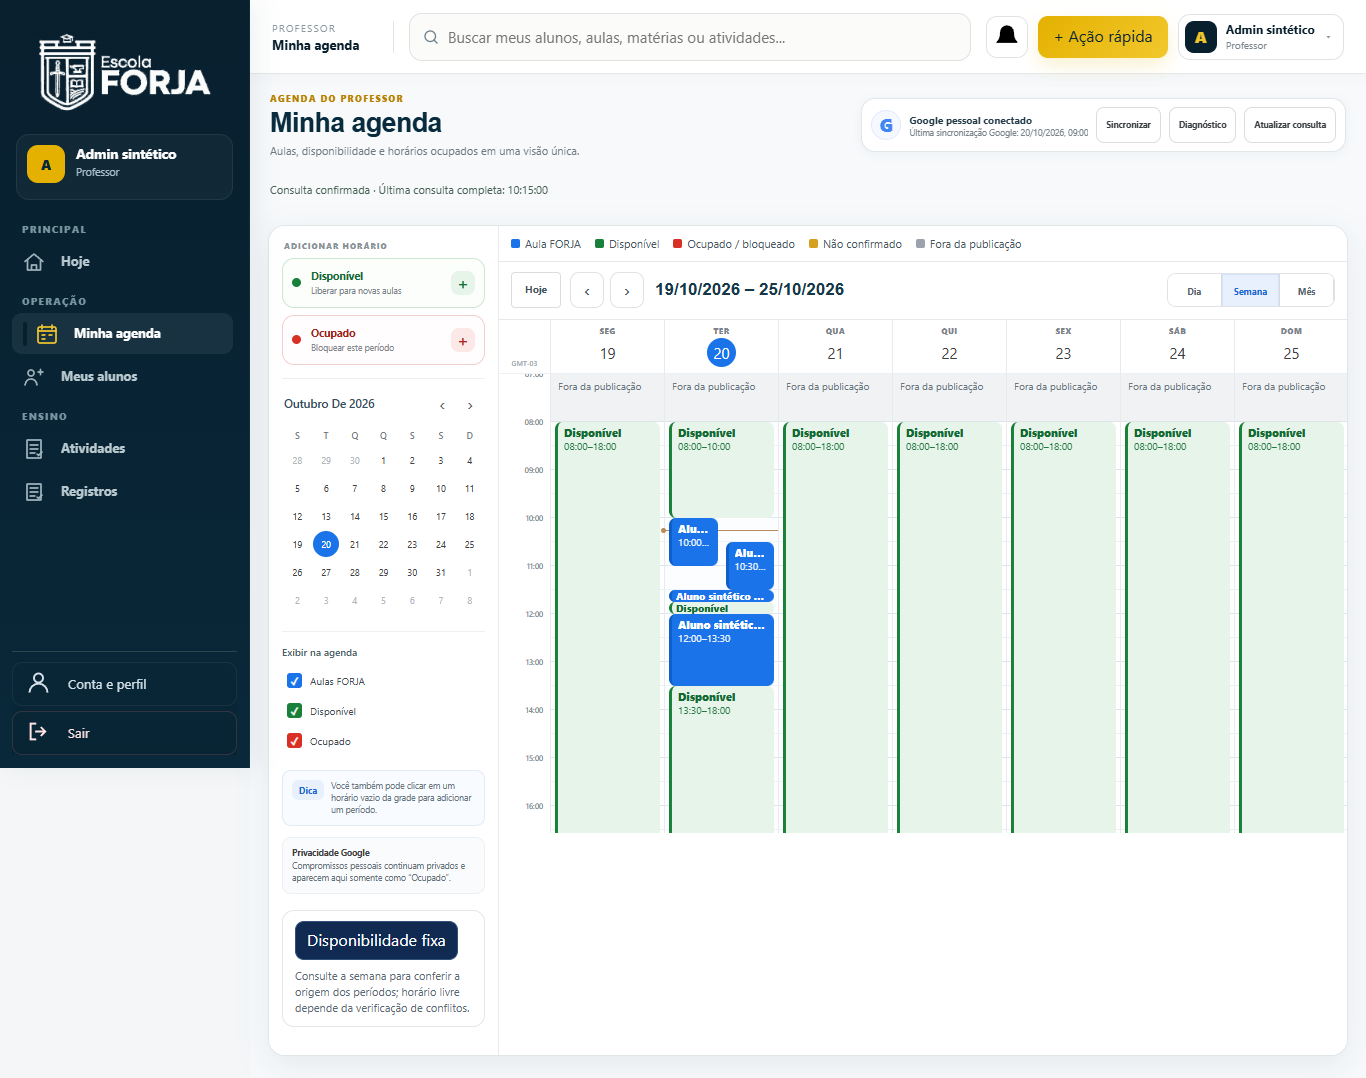
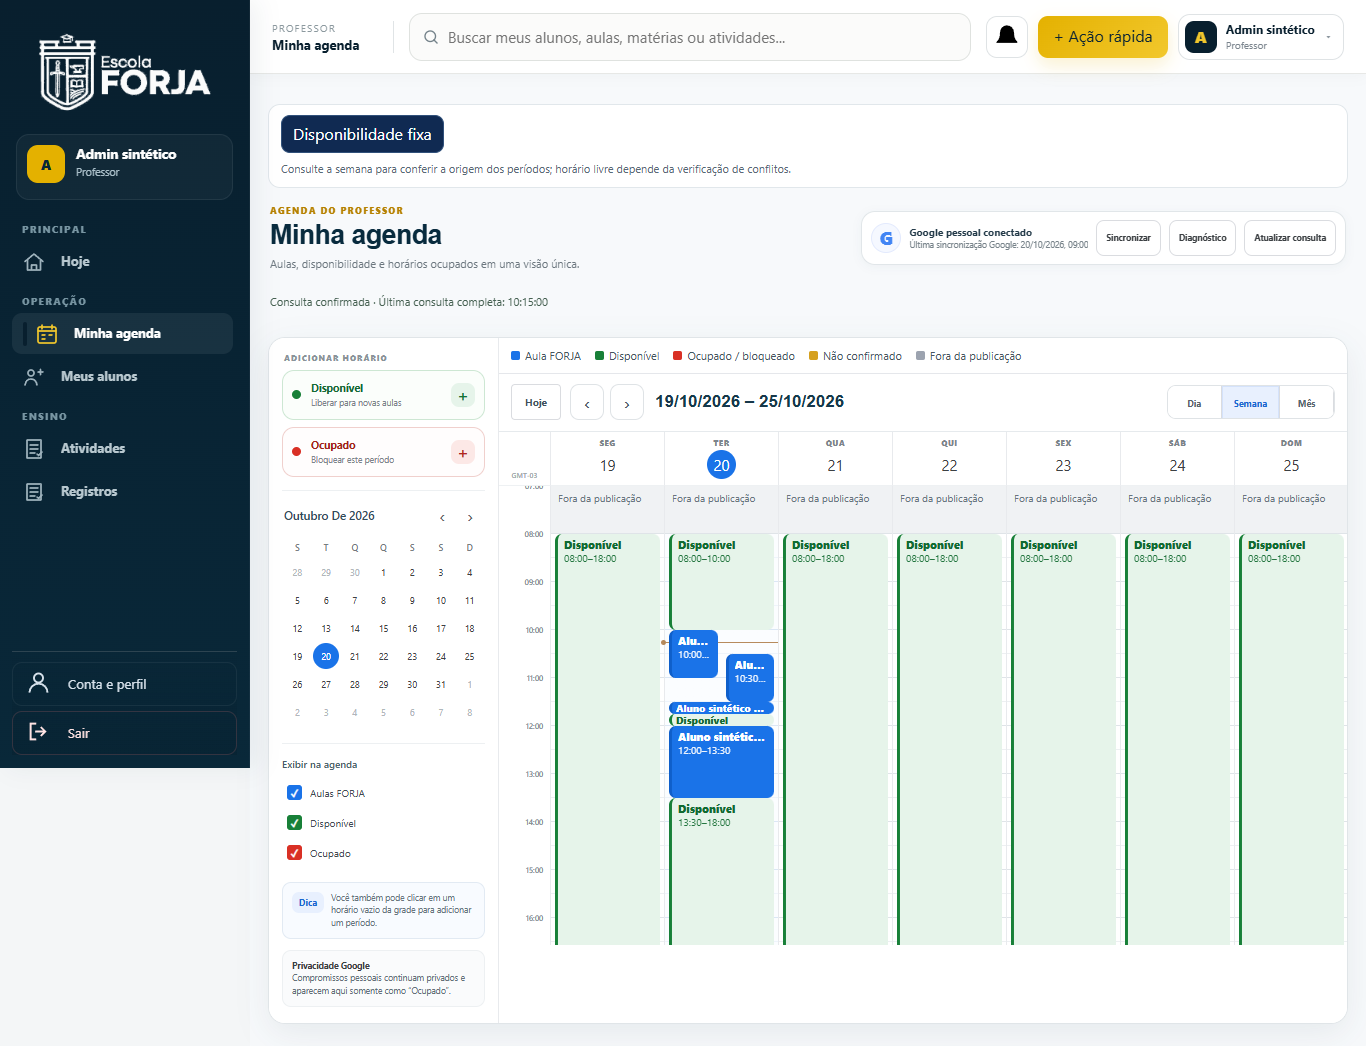
fix(agenda): retain calendar scroll and visible fixed availability action

diff --git a/index.html b/index.html
@@ -7078,7 +7078,7 @@ polishPortalBlockE=function(){polishPortalBlockEBeforeV619();document.documentEl
   function v621CalendarSidebar(role,uid){
     const teacher=role==='teacher',filters=state.v624Filters||{lesson:true,availability:true,busy:true};
     const actions=teacher?`<div class="v626-create-panel"><span class="v626-create-kicker">ADICIONAR HORÁRIO</span><button type="button" class="available" data-v625-new-slot="available"><i></i><span><b>Disponível</b><small>Liberar para novas aulas</small></span><strong>+</strong></button><button type="button" class="busy" data-v625-new-slot="busy"><i></i><span><b>Ocupado</b><small>Bloquear este período</small></span><strong>+</strong></button></div>`:`<button class="v622-create" data-action="newLesson"><span class="v623-plus">+</span>Marcar aula</button>`;
-    return `<aside class="v622-left">${actions}<details class="forja2-filters forja2-teacher-filters" ${state.v625AgendaFiltersOpen??!matchMedia("(max-width:900px)").matches?"open":""}><summary>Filtros, calendário e disponibilidade</summary><div class="forja2-filter-content">${v621MiniMonth(role)}<div class="v622-cal-list"><h4>Exibir na agenda</h4><button type="button" class="v622-filter ${filters.lesson!==false?'on':''}" data-v624-filter="lesson"><span class="v623-check lesson">${filters.lesson!==false?'✓':''}</span>Aulas FORJA</button><button type="button" class="v622-filter ${filters.availability!==false?'on':''}" data-v624-filter="availability"><span class="v623-check availability">${filters.availability!==false?'✓':''}</span>Disponível</button><button type="button" class="v622-filter ${filters.busy!==false?'on':''}" data-v624-filter="busy"><span class="v623-check busy">${filters.busy!==false?'✓':''}</span>Ocupado</button></div>${teacher?`<div class="v625-slot-help"><b>Dica</b><span>Você também pode clicar em um horário vazio da grade para adicionar um período.</span></div>`:''}<div class="v622-left-note"><b>Privacidade Google</b><br>${teacher?'Compromissos pessoais continuam privados e aparecem aqui somente como “Ocupado”.':'Use os horários verdes para marcar aulas. Vermelho significa que o professor não pode receber agendamento.'}</div></div></details></aside>`;
+    return `<aside class="v622-left">${actions}<details class="forja2-filters forja2-teacher-filters" ${state.v625AgendaFiltersOpen??!matchMedia("(max-width:900px)").matches?"open":""}><summary>Filtros e calendário</summary><div class="forja2-filter-content">${v621MiniMonth(role)}<div class="v622-cal-list"><h4>Exibir na agenda</h4><button type="button" class="v622-filter ${filters.lesson!==false?'on':''}" data-v624-filter="lesson"><span class="v623-check lesson">${filters.lesson!==false?'✓':''}</span>Aulas FORJA</button><button type="button" class="v622-filter ${filters.availability!==false?'on':''}" data-v624-filter="availability"><span class="v623-check availability">${filters.availability!==false?'✓':''}</span>Disponível</button><button type="button" class="v622-filter ${filters.busy!==false?'on':''}" data-v624-filter="busy"><span class="v623-check busy">${filters.busy!==false?'✓':''}</span>Ocupado</button></div>${teacher?`<div class="v625-slot-help"><b>Dica</b><span>Você também pode clicar em um horário vazio da grade para adicionar um período.</span></div>`:''}<div class="v622-left-note"><b>Privacidade Google</b><br>${teacher?'Compromissos pessoais continuam privados e aparecem aqui somente como “Ocupado”.':'Use os horários verdes para marcar aulas. Vermelho significa que o professor não pode receber agendamento.'}</div></div></details></aside>`;
   }
 
   function v621TeacherTopbar(){
@@ -8720,10 +8720,18 @@ body:has(#workspaceContent .forja2-agenda) #fixedWeekNotice{flex-basis:100%;font
   if(calendar)calendar.style.setProperty('--forja2-lane-min',Math.max(112,(orderedIds?.length||1)*112)+'px');
   // Move the existing control node (and its handlers) beside the calendar's
   // filters, once per render. Do not recreate an edited select on each poll.
-  const entry=document.getElementById('forjaFixedEntry'),target=document.querySelector(state.role==='admin'?'.v629-sidebar .forja2-filter-content':'.forja2-teacher-filters .forja2-filter-content');
+  const entry=document.getElementById('forjaFixedEntry'),target=state.role==='admin'?document.querySelector('.v629-sidebar .forja2-filter-content'):null;
   if(entry&&target&&entry.parentElement!==target)target.append(entry);
   const teacherFilters=document.querySelector('.forja2-teacher-filters');
   if(teacherFilters&&!teacherFilters.dataset.boundFine){teacherFilters.dataset.boundFine='1';teacherFilters.ontoggle=()=>{state.v625AgendaFiltersOpen=teacherFilters.open};}
+  const viewport=document.querySelector('.forja2-agenda .v621-week-wrap'),c=context;
+  if(viewport&&current(c)&&viewport.dataset.forja2ScrollBound!==c.key){
+   viewport.dataset.forja2ScrollBound=c.key;
+   const saved=state.forjaAgenda2Scrolls?.[c.key];if(saved){viewport.scrollTop=saved.top;viewport.scrollLeft=saved.left;}
+   // This is view state only. Native session reset clears it; the context key
+   // also fences UID/generation, professional selection, range and view.
+   viewport.onscroll=()=>{if(!viewport.isConnected||!current(c))return;const positions=state.forjaAgenda2Scrolls||={};positions[c.key]={top:viewport.scrollTop,left:viewport.scrollLeft};for(const key of Object.keys(positions).slice(0,-8))delete positions[key];};
+  }
   for(const lane of document.querySelectorAll('.forja2-agenda .v621-lane')){
    const day=lane.dataset.date||lane.dataset.v629Day,ids=orderedIds||context?.ids||[];
    for(const [index,uid] of ids.entries()){

diff --git a/scripts/agenda-intelligence-client.js b/scripts/agenda-intelligence-client.js
@@ -80,10 +80,18 @@
   if(calendar)calendar.style.setProperty('--forja2-lane-min',Math.max(112,(orderedIds?.length||1)*112)+'px');
   // Move the existing control node (and its handlers) beside the calendar's
   // filters, once per render. Do not recreate an edited select on each poll.
-  const entry=document.getElementById('forjaFixedEntry'),target=document.querySelector(state.role==='admin'?'.v629-sidebar .forja2-filter-content':'.forja2-teacher-filters .forja2-filter-content');
+  const entry=document.getElementById('forjaFixedEntry'),target=state.role==='admin'?document.querySelector('.v629-sidebar .forja2-filter-content'):null;
   if(entry&&target&&entry.parentElement!==target)target.append(entry);
   const teacherFilters=document.querySelector('.forja2-teacher-filters');
   if(teacherFilters&&!teacherFilters.dataset.boundFine){teacherFilters.dataset.boundFine='1';teacherFilters.ontoggle=()=>{state.v625AgendaFiltersOpen=teacherFilters.open};}
+  const viewport=document.querySelector('.forja2-agenda .v621-week-wrap'),c=context;
+  if(viewport&&current(c)&&viewport.dataset.forja2ScrollBound!==c.key){
+   viewport.dataset.forja2ScrollBound=c.key;
+   const saved=state.forjaAgenda2Scrolls?.[c.key];if(saved){viewport.scrollTop=saved.top;viewport.scrollLeft=saved.left;}
+   // This is view state only. Native session reset clears it; the context key
+   // also fences UID/generation, professional selection, range and view.
+   viewport.onscroll=()=>{if(!viewport.isConnected||!current(c))return;const positions=state.forjaAgenda2Scrolls||={};positions[c.key]={top:viewport.scrollTop,left:viewport.scrollLeft};for(const key of Object.keys(positions).slice(0,-8))delete positions[key];};
+  }
   for(const lane of document.querySelectorAll('.forja2-agenda .v621-lane')){
    const day=lane.dataset.date||lane.dataset.v629Day,ids=orderedIds||context?.ids||[];
    for(const [index,uid] of ids.entries()){
